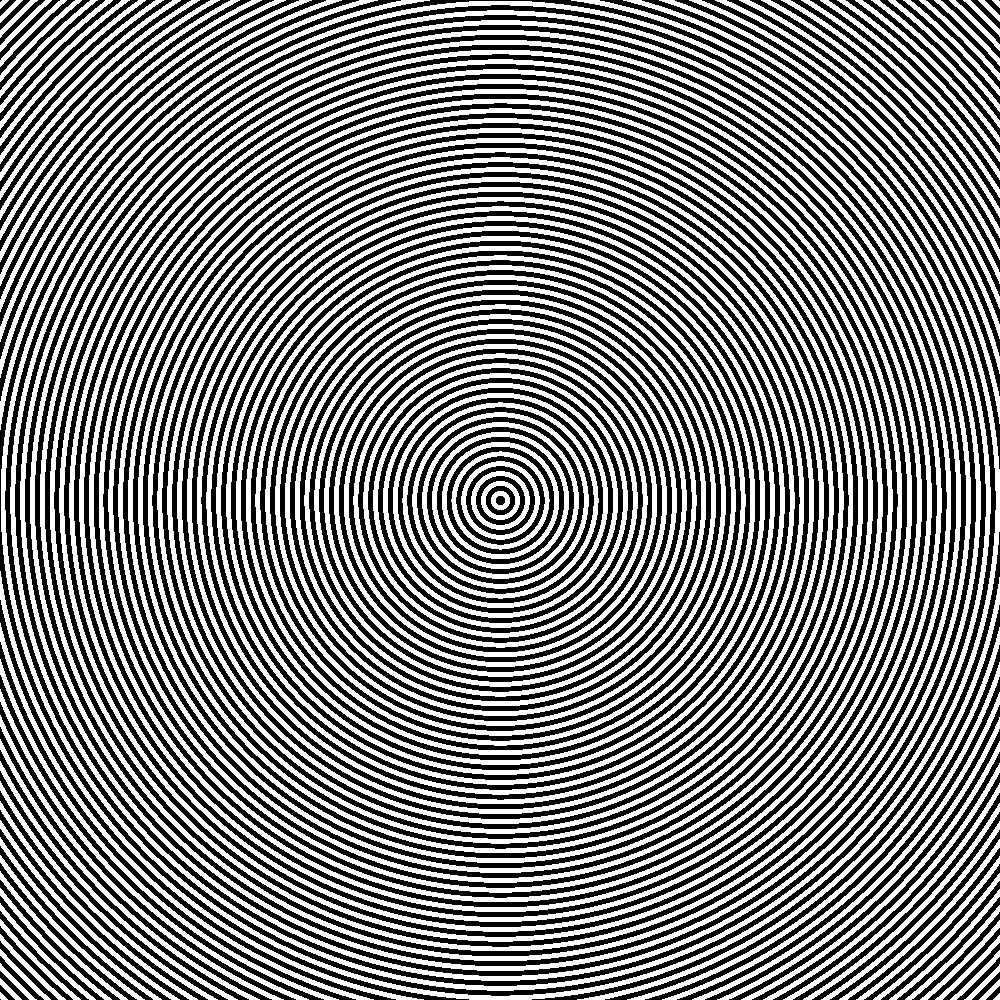
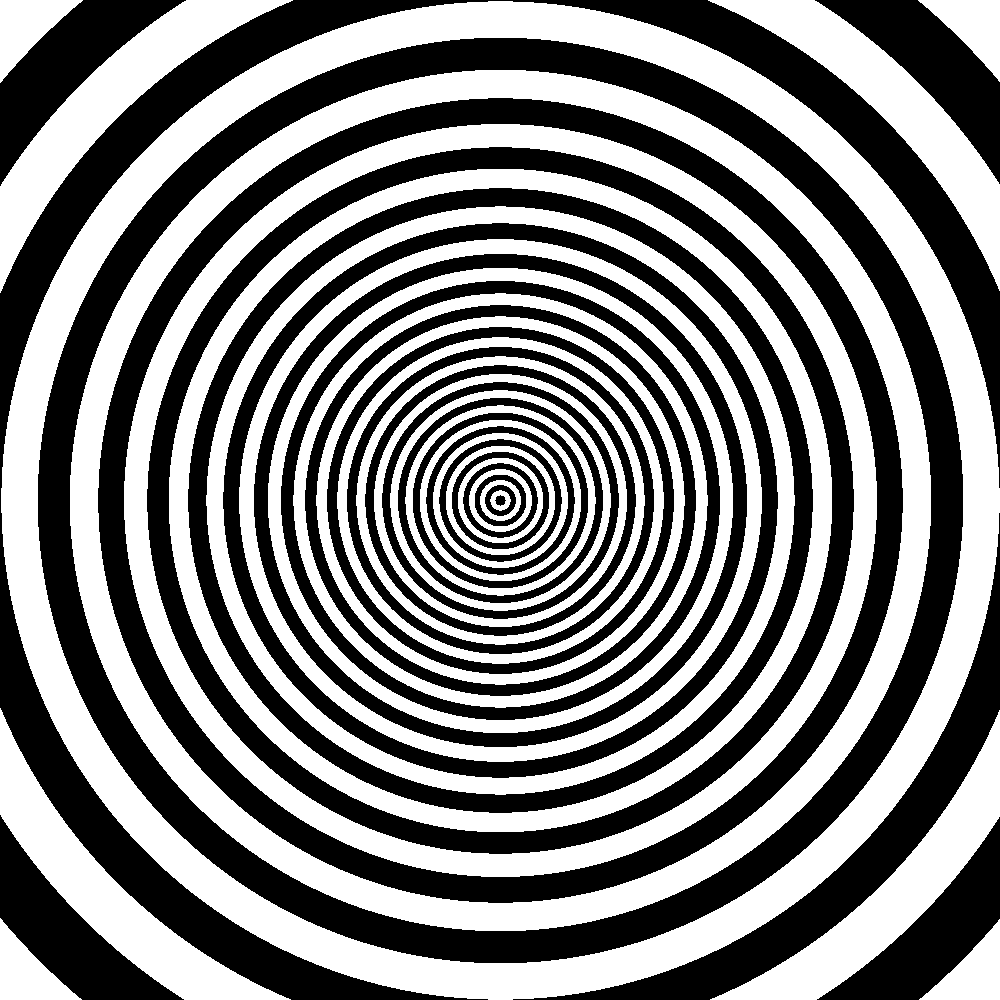
Task 3c completed.

diff --git a/List_1/src/Task_3.java b/List_1/src/Task_3.java
@@ -67,15 +67,15 @@ public class Task_3 {
 
         int centerX = width / 2;
         int centerY = height / 2;
-        int gapIncrease = 5;
+        int gapSize = 5;
         circleColor = Color.BLACK;
         bgColor = Color.WHITE;
 
         for (int y = 0; y < height; y++) {
             for (int x = 0; x < width; x++) {
                 double distance = Math.sqrt(Math.pow(x - centerX, 2) + Math.pow(y - centerY, 2));
-                double sizeCoeff = Math.pow(distance / 50, 1);
-                int ringNumber = (int) ((distance + sizeCoeff) / gapIncrease);
+                double sizeCoeff = Math.pow(distance / 100, 1.2);
+                int ringNumber = (int) (distance / (gapSize + sizeCoeff));
 
                 boolean isCircle = ringNumber % 2 == 0;
                 Color color = isCircle ? circleColor : bgColor;
